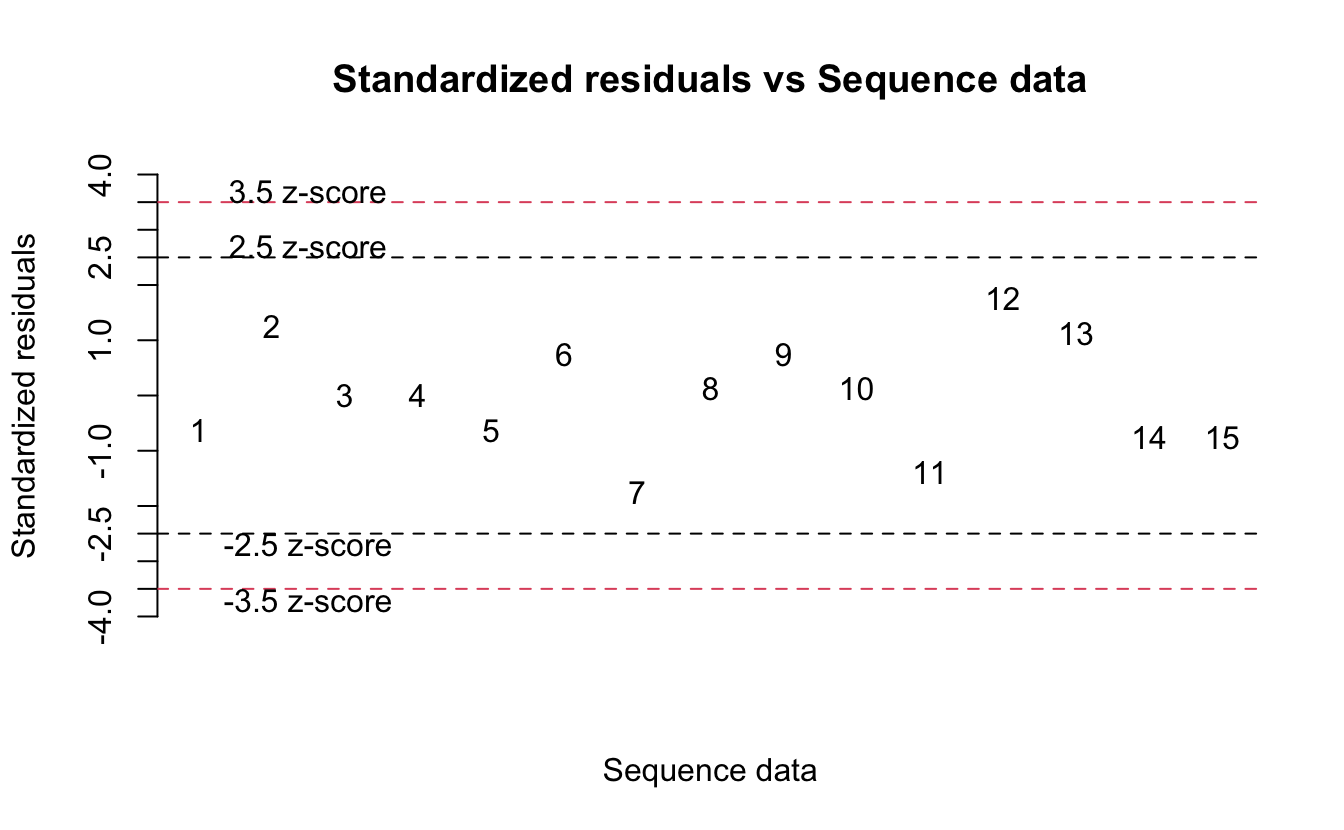
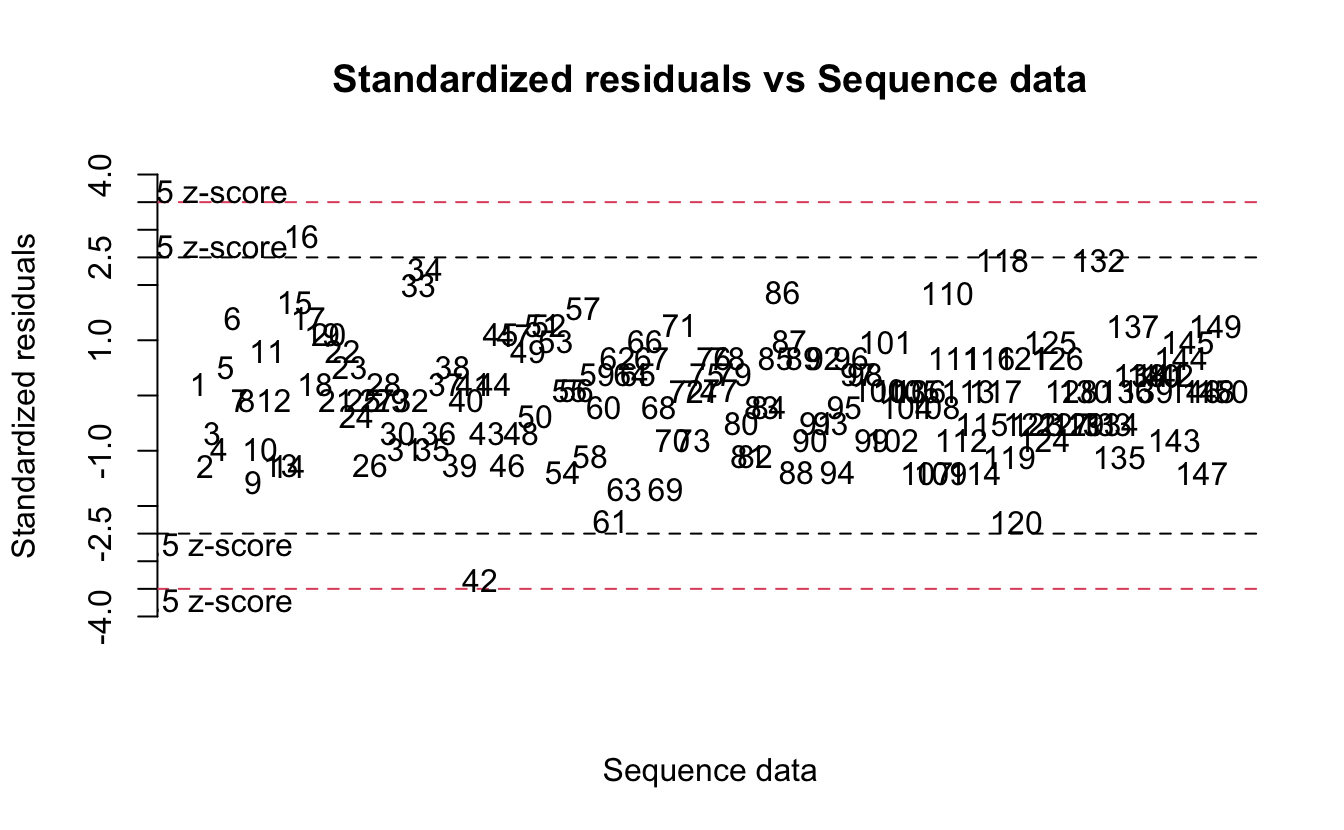
update iris data

diff --git a/content/post/ANOVA/index.md b/content/post/ANOVA/index.md
@@ -27,7 +27,7 @@ image:
 #   E.g. `projects = ["internal-project"]` references `content/project/deep-learning/index.md`.
 #   Otherwise, set `projects = []`.
 projects: []
-rmd_hash: 8fb338262478d6b3
+rmd_hash: b14fda81c5190925
 
 ---
 
@@ -401,9 +401,9 @@ En R, la prueba de Tukey HSD se realiza de la siguiente manera. Aquí es donde e
 <span class='c'>#&gt; </span>
 <span class='c'>#&gt; Linear Hypotheses:</span>
 <span class='c'>#&gt;                             Estimate Std. Error t value Pr(&gt;|t|)    </span>
-<span class='c'>#&gt; versicolor - setosa == 0    -0.65800    0.06794  -9.685  &lt; 0.001 ***</span>
-<span class='c'>#&gt; virginica - setosa == 0     -0.45400    0.06794  -6.683  &lt; 0.001 ***</span>
-<span class='c'>#&gt; virginica - versicolor == 0  0.20400    0.06794   3.003  0.00875 ** </span>
+<span class='c'>#&gt; versicolor - setosa == 0    -0.65800    0.06794  -9.685  &lt; 1e-04 ***</span>
+<span class='c'>#&gt; virginica - setosa == 0     -0.45400    0.06794  -6.683  &lt; 1e-04 ***</span>
+<span class='c'>#&gt; virginica - versicolor == 0  0.20400    0.06794   3.003  0.00881 ** </span>
 <span class='c'>#&gt; ---</span>
 <span class='c'>#&gt; Signif. codes:  0 '***' 0.001 '**' 0.01 '*' 0.05 '.' 0.1 ' ' 1</span>
 <span class='c'>#&gt; (Adjusted p values reported -- single-step method)</span>
@@ -450,31 +450,28 @@ Para realizar de forma más fácil un análisis de varianza, se puede usar la li
 
 ### Análisis de varianza con `easyanova`
 
-`data1` es la base de datos que se usará con la librería `easyanova`.
+Para proceder con ANVA los datos de `iris` se selecciona y ordena para dar uso con el paquete `easyanova`.
 
 <div class="highlight">
 
-<pre class='chroma'><code class='language-r' data-lang='r'><span class='nf'><a href='https://rdrr.io/r/utils/data.html'>data</a></span><span class='o'>(</span><span class='s'>"data1"</span><span class='o'>)</span>
-<span class='nf'>tibble</span><span class='o'>(</span><span class='nv'>data1</span><span class='o'>)</span>
+<pre class='chroma'><code class='language-r' data-lang='r'><span class='nv'>fsdata</span> <span class='o'>&lt;-</span> <span class='nv'>iris</span> <span class='o'>%&gt;%</span>
+  <span class='nf'>dplyr</span><span class='nf'>::</span><span class='nf'><a href='https://dplyr.tidyverse.org/reference/select.html'>select</a></span><span class='o'>(</span><span class='nv'>Species</span>, <span class='nv'>Sepal.Width</span><span class='o'>)</span>
+<span class='nf'>tibble</span><span class='o'>(</span><span class='nv'>fsdata</span><span class='o'>)</span>
 
-<span class='c'>#&gt; <span style='color: #555555;'># A tibble: 15 x 2</span></span>
-<span class='c'>#&gt;    Diet   Gain</span>
-<span class='c'>#&gt;    <span style='color: #555555;font-style: italic;'>&lt;fct&gt;</span><span> </span><span style='color: #555555;font-style: italic;'>&lt;int&gt;</span></span>
-<span class='c'>#&gt; <span style='color: #555555;'> 1</span><span> d1      270</span></span>
-<span class='c'>#&gt; <span style='color: #555555;'> 2</span><span> d1      300</span></span>
-<span class='c'>#&gt; <span style='color: #555555;'> 3</span><span> d1      280</span></span>
-<span class='c'>#&gt; <span style='color: #555555;'> 4</span><span> d1      280</span></span>
-<span class='c'>#&gt; <span style='color: #555555;'> 5</span><span> d1      270</span></span>
-<span class='c'>#&gt; <span style='color: #555555;'> 6</span><span> d2      290</span></span>
-<span class='c'>#&gt; <span style='color: #555555;'> 7</span><span> d2      250</span></span>
-<span class='c'>#&gt; <span style='color: #555555;'> 8</span><span> d2      280</span></span>
-<span class='c'>#&gt; <span style='color: #555555;'> 9</span><span> d2      290</span></span>
-<span class='c'>#&gt; <span style='color: #555555;'>10</span><span> d2      280</span></span>
-<span class='c'>#&gt; <span style='color: #555555;'>11</span><span> d3      290</span></span>
-<span class='c'>#&gt; <span style='color: #555555;'>12</span><span> d3      340</span></span>
-<span class='c'>#&gt; <span style='color: #555555;'>13</span><span> d3      330</span></span>
-<span class='c'>#&gt; <span style='color: #555555;'>14</span><span> d3      300</span></span>
-<span class='c'>#&gt; <span style='color: #555555;'>15</span><span> d3      300</span></span>
+<span class='c'>#&gt; <span style='color: #555555;'># A tibble: 150 x 2</span></span>
+<span class='c'>#&gt;    Species Sepal.Width</span>
+<span class='c'>#&gt;    <span style='color: #555555;font-style: italic;'>&lt;fct&gt;</span><span>         </span><span style='color: #555555;font-style: italic;'>&lt;dbl&gt;</span></span>
+<span class='c'>#&gt; <span style='color: #555555;'> 1</span><span> setosa          3.5</span></span>
+<span class='c'>#&gt; <span style='color: #555555;'> 2</span><span> setosa          3  </span></span>
+<span class='c'>#&gt; <span style='color: #555555;'> 3</span><span> setosa          3.2</span></span>
+<span class='c'>#&gt; <span style='color: #555555;'> 4</span><span> setosa          3.1</span></span>
+<span class='c'>#&gt; <span style='color: #555555;'> 5</span><span> setosa          3.6</span></span>
+<span class='c'>#&gt; <span style='color: #555555;'> 6</span><span> setosa          3.9</span></span>
+<span class='c'>#&gt; <span style='color: #555555;'> 7</span><span> setosa          3.4</span></span>
+<span class='c'>#&gt; <span style='color: #555555;'> 8</span><span> setosa          3.4</span></span>
+<span class='c'>#&gt; <span style='color: #555555;'> 9</span><span> setosa          2.9</span></span>
+<span class='c'>#&gt; <span style='color: #555555;'>10</span><span> setosa          3.1</span></span>
+<span class='c'>#&gt; <span style='color: #555555;'># … with 140 more rows</span></span>
 </code></pre>
 
 </div>
@@ -483,7 +480,7 @@ Para realizar de forma más fácil un análisis de varianza, se puede usar la li
 
 <pre class='chroma'><code class='language-r' data-lang='r'><span class='c'># Análisis de varianza para DCA</span>
 
-<span class='nv'>r1</span> <span class='o'>&lt;-</span> <span class='nf'><a href='https://rdrr.io/pkg/easyanova/man/ea1.html'>ea1</a></span><span class='o'>(</span>data <span class='o'>=</span> <span class='nv'>data1</span>, <span class='c'># Base de datos</span>
+<span class='nv'>r1</span> <span class='o'>&lt;-</span> <span class='nf'><a href='https://rdrr.io/pkg/easyanova/man/ea1.html'>ea1</a></span><span class='o'>(</span>data <span class='o'>=</span> <span class='nv'>fsdata</span>, <span class='c'># Base de datos</span>
           design <span class='o'>=</span> <span class='m'>1</span>, <span class='c'># Diseño experimental: 1=DCA, 2=DBCA, etc.</span>
           alpha <span class='o'>=</span> <span class='m'>0.05</span><span class='o'>)</span> <span class='c'># Probabilidad estadística</span>
 
@@ -492,47 +489,113 @@ Para realizar de forma más fácil un análisis de varianza, se puede usar la li
 <pre class='chroma'><code class='language-r' data-lang='r'><span class='nv'>r1</span>
 
 <span class='c'>#&gt; $`Analysis of variance`</span>
-<span class='c'>#&gt;            df type I SS mean square F value    p&gt;F</span>
-<span class='c'>#&gt; treatments  2      3640   1820.0000  6.1348 0.0146</span>
-<span class='c'>#&gt; Residuals  12      3560    296.6667       -      -</span>
+<span class='c'>#&gt;             df type I SS mean square F value    p&gt;F</span>
+<span class='c'>#&gt; treatments   2   11.3449      5.6725   49.16 &lt;0.001</span>
+<span class='c'>#&gt; Residuals  147   16.9620      0.1154       -      -</span>
 <span class='c'>#&gt; </span>
 <span class='c'>#&gt; $Means</span>
-<span class='c'>#&gt;   treatment mean standard.error tukey snk duncan t scott_knott</span>
-<span class='c'>#&gt; 1        d3  312         7.7028     a   a      a a           a</span>
-<span class='c'>#&gt; 2        d1  280         7.7028     b   b      b b           b</span>
-<span class='c'>#&gt; 3        d2  278         7.7028     b   b      b b           b</span>
+<span class='c'>#&gt;    treatment  mean standard.error tukey snk duncan t scott_knott</span>
+<span class='c'>#&gt; 1     setosa 3.428          0.048     a   a      a a           a</span>
+<span class='c'>#&gt; 2  virginica 2.974          0.048     b   b      b b           b</span>
+<span class='c'>#&gt; 3 versicolor 2.770          0.048     c   c      c c           c</span>
 <span class='c'>#&gt; </span>
 <span class='c'>#&gt; $`Multiple comparison test`</span>
-<span class='c'>#&gt;      pair contrast p(tukey) p(snk) p(duncan)   p(t)</span>
-<span class='c'>#&gt; 1 d3 - d1       32   0.0310 0.0124    0.0124 0.0124</span>
-<span class='c'>#&gt; 2 d3 - d2       34   0.0223 0.0223    0.0112 0.0088</span>
-<span class='c'>#&gt; 3 d1 - d2        2   0.9816 0.8574    0.8574 0.8574</span>
+<span class='c'>#&gt;                     pair contrast p(tukey) p(snk) p(duncan)   p(t)</span>
+<span class='c'>#&gt; 1     setosa - virginica    0.454   0.0000 0.0000    0.0000 0.0000</span>
+<span class='c'>#&gt; 2    setosa - versicolor    0.658   0.0000 0.0000    0.0000 0.0000</span>
+<span class='c'>#&gt; 3 virginica - versicolor    0.204   0.0087 0.0031    0.0031 0.0031</span>
 <span class='c'>#&gt; </span>
 <span class='c'>#&gt; $`Residual analysis`</span>
 <span class='c'>#&gt; $`Residual analysis`$`residual analysis`</span>
-<span class='c'>#&gt;                               values</span>
-<span class='c'>#&gt; p.value Shapiro-Wilk test     0.8937</span>
-<span class='c'>#&gt; p.value Bartlett test         0.5662</span>
-<span class='c'>#&gt; coefficient of variation (%)  5.9400</span>
-<span class='c'>#&gt; first value most discrepant   7.0000</span>
-<span class='c'>#&gt; second value most discrepant 12.0000</span>
-<span class='c'>#&gt; third value most discrepant  11.0000</span>
+<span class='c'>#&gt;                                values</span>
+<span class='c'>#&gt; p.value Shapiro-Wilk test      0.3230</span>
+<span class='c'>#&gt; p.value Bartlett test          0.3515</span>
+<span class='c'>#&gt; coefficient of variation (%)  11.1100</span>
+<span class='c'>#&gt; first value most discrepant   42.0000</span>
+<span class='c'>#&gt; second value most discrepant  16.0000</span>
+<span class='c'>#&gt; third value most discrepant  118.0000</span>
 <span class='c'>#&gt; </span>
 <span class='c'>#&gt; $`Residual analysis`$residuals</span>
-<span class='c'>#&gt;             1             2             3             4             5 </span>
-<span class='c'>#&gt; -1.000000e+01  2.000000e+01  2.531308e-14  3.952394e-14 -1.000000e+01 </span>
-<span class='c'>#&gt;             6             7             8             9            10 </span>
-<span class='c'>#&gt;  1.200000e+01 -2.800000e+01  2.000000e+00  1.200000e+01  2.000000e+00 </span>
-<span class='c'>#&gt;            11            12            13            14            15 </span>
-<span class='c'>#&gt; -2.200000e+01  2.800000e+01  1.800000e+01 -1.200000e+01 -1.200000e+01 </span>
+<span class='c'>#&gt;      1      2      3      4      5      6      7      8      9     10     11 </span>
+<span class='c'>#&gt;  0.072 -0.428 -0.228 -0.328  0.172  0.472 -0.028 -0.028 -0.528 -0.328  0.272 </span>
+<span class='c'>#&gt;     12     13     14     15     16     17     18     19     20     21     22 </span>
+<span class='c'>#&gt; -0.028 -0.428 -0.428  0.572  0.972  0.472  0.072  0.372  0.372 -0.028  0.272 </span>
+<span class='c'>#&gt;     23     24     25     26     27     28     29     30     31     32     33 </span>
+<span class='c'>#&gt;  0.172 -0.128 -0.028 -0.428 -0.028  0.072 -0.028 -0.228 -0.328 -0.028  0.672 </span>
+<span class='c'>#&gt;     34     35     36     37     38     39     40     41     42     43     44 </span>
+<span class='c'>#&gt;  0.772 -0.328 -0.228  0.072  0.172 -0.428 -0.028  0.072 -1.128 -0.228  0.072 </span>
+<span class='c'>#&gt;     45     46     47     48     49     50     51     52     53     54     55 </span>
+<span class='c'>#&gt;  0.372 -0.428  0.372 -0.228  0.272 -0.128  0.430  0.430  0.330 -0.470  0.030 </span>
+<span class='c'>#&gt;     56     57     58     59     60     61     62     63     64     65     66 </span>
+<span class='c'>#&gt;  0.030  0.530 -0.370  0.130 -0.070 -0.770  0.230 -0.570  0.130  0.130  0.330 </span>
+<span class='c'>#&gt;     67     68     69     70     71     72     73     74     75     76     77 </span>
+<span class='c'>#&gt;  0.230 -0.070 -0.570 -0.270  0.430  0.030 -0.270  0.030  0.130  0.230  0.030 </span>
+<span class='c'>#&gt;     78     79     80     81     82     83     84     85     86     87     88 </span>
+<span class='c'>#&gt;  0.230  0.130 -0.170 -0.370 -0.370 -0.070 -0.070  0.230  0.630  0.330 -0.470 </span>
+<span class='c'>#&gt;     89     90     91     92     93     94     95     96     97     98     99 </span>
+<span class='c'>#&gt;  0.230 -0.270 -0.170  0.230 -0.170 -0.470 -0.070  0.230  0.130  0.130 -0.270 </span>
+<span class='c'>#&gt;    100    101    102    103    104    105    106    107    108    109    110 </span>
+<span class='c'>#&gt;  0.030  0.326 -0.274  0.026 -0.074  0.026  0.026 -0.474 -0.074 -0.474  0.626 </span>
+<span class='c'>#&gt;    111    112    113    114    115    116    117    118    119    120    121 </span>
+<span class='c'>#&gt;  0.226 -0.274  0.026 -0.474 -0.174  0.226  0.026  0.826 -0.374 -0.774  0.226 </span>
+<span class='c'>#&gt;    122    123    124    125    126    127    128    129    130    131    132 </span>
+<span class='c'>#&gt; -0.174 -0.174 -0.274  0.326  0.226 -0.174  0.026 -0.174  0.026 -0.174  0.826 </span>
+<span class='c'>#&gt;    133    134    135    136    137    138    139    140    141    142    143 </span>
+<span class='c'>#&gt; -0.174 -0.174 -0.374  0.026  0.426  0.126  0.026  0.126  0.126  0.126 -0.274 </span>
+<span class='c'>#&gt;    144    145    146    147    148    149    150 </span>
+<span class='c'>#&gt;  0.226  0.326  0.026 -0.474  0.026  0.426  0.026 </span>
 <span class='c'>#&gt; </span>
 <span class='c'>#&gt; $`Residual analysis`$`standardized residuals`</span>
-<span class='c'>#&gt;             1             2             3             4             5 </span>
-<span class='c'>#&gt; -6.271032e-01  1.254206e+00  1.557686e-15  2.448853e-15 -6.271032e-01 </span>
-<span class='c'>#&gt;             6             7             8             9            10 </span>
-<span class='c'>#&gt;  7.525238e-01 -1.755889e+00  1.254206e-01  7.525238e-01  1.254206e-01 </span>
-<span class='c'>#&gt;            11            12            13            14            15 </span>
-<span class='c'>#&gt; -1.379627e+00  1.755889e+00  1.128786e+00 -7.525238e-01 -7.525238e-01</span>
+<span class='c'>#&gt;           1           2           3           4           5           6 </span>
+<span class='c'>#&gt;  0.21339641 -1.26852308 -0.67575529 -0.97213918  0.50978030  1.39893200 </span>
+<span class='c'>#&gt;           7           8           9          10          11          12 </span>
+<span class='c'>#&gt; -0.08298749 -0.08298749 -1.56490698 -0.97213918  0.80616420 -0.08298749 </span>
+<span class='c'>#&gt;          13          14          15          16          17          18 </span>
+<span class='c'>#&gt; -1.26852308 -1.26852308  1.69531589  2.88085148  1.39893200  0.21339641 </span>
+<span class='c'>#&gt;          19          20          21          22          23          24 </span>
+<span class='c'>#&gt;  1.10254810  1.10254810 -0.08298749  0.80616420  0.50978030 -0.37937139 </span>
+<span class='c'>#&gt;          25          26          27          28          29          30 </span>
+<span class='c'>#&gt; -0.08298749 -1.26852308 -0.08298749  0.21339641 -0.08298749 -0.67575529 </span>
+<span class='c'>#&gt;          31          32          33          34          35          36 </span>
+<span class='c'>#&gt; -0.97213918 -0.08298749  1.99169979  2.28808369 -0.97213918 -0.67575529 </span>
+<span class='c'>#&gt;          37          38          39          40          41          42 </span>
+<span class='c'>#&gt;  0.21339641  0.50978030 -1.26852308 -0.08298749  0.21339641 -3.34321036 </span>
+<span class='c'>#&gt;          43          44          45          46          47          48 </span>
+<span class='c'>#&gt; -0.67575529  0.21339641  1.10254810 -1.26852308  1.10254810 -0.67575529 </span>
+<span class='c'>#&gt;          49          50          51          52          53          54 </span>
+<span class='c'>#&gt;  0.80616420 -0.37937139  1.27445076  1.27445076  0.97806686 -1.39300432 </span>
+<span class='c'>#&gt;          55          56          57          58          59          60 </span>
+<span class='c'>#&gt;  0.08891517  0.08891517  1.57083466 -1.09662042  0.38529907 -0.20746873 </span>
+<span class='c'>#&gt;          61          62          63          64          65          66 </span>
+<span class='c'>#&gt; -2.28215601  0.68168296 -1.68938822  0.38529907  0.38529907  0.97806686 </span>
+<span class='c'>#&gt;          67          68          69          70          71          72 </span>
+<span class='c'>#&gt;  0.68168296 -0.20746873 -1.68938822 -0.80023652  1.27445076  0.08891517 </span>
+<span class='c'>#&gt;          73          74          75          76          77          78 </span>
+<span class='c'>#&gt; -0.80023652  0.08891517  0.38529907  0.68168296  0.08891517  0.68168296 </span>
+<span class='c'>#&gt;          79          80          81          82          83          84 </span>
+<span class='c'>#&gt;  0.38529907 -0.50385263 -1.09662042 -1.09662042 -0.20746873 -0.20746873 </span>
+<span class='c'>#&gt;          85          86          87          88          89          90 </span>
+<span class='c'>#&gt;  0.68168296  1.86721855  0.97806686 -1.39300432  0.68168296 -0.80023652 </span>
+<span class='c'>#&gt;          91          92          93          94          95          96 </span>
+<span class='c'>#&gt; -0.50385263  0.68168296 -0.50385263 -1.39300432 -0.20746873  0.68168296 </span>
+<span class='c'>#&gt;          97          98          99         100         101         102 </span>
+<span class='c'>#&gt;  0.38529907  0.38529907 -0.80023652  0.08891517  0.96621151 -0.81209188 </span>
+<span class='c'>#&gt;         103         104         105         106         107         108 </span>
+<span class='c'>#&gt;  0.07705981 -0.21932408  0.07705981  0.07705981 -1.40485967 -0.21932408 </span>
+<span class='c'>#&gt;         109         110         111         112         113         114 </span>
+<span class='c'>#&gt; -1.40485967  1.85536320  0.66982761 -0.81209188  0.07705981 -1.40485967 </span>
+<span class='c'>#&gt;         115         116         117         118         119         120 </span>
+<span class='c'>#&gt; -0.51570798  0.66982761  0.07705981  2.44813099 -1.10847578 -2.29401137 </span>
+<span class='c'>#&gt;         121         122         123         124         125         126 </span>
+<span class='c'>#&gt;  0.66982761 -0.51570798 -0.51570798 -0.81209188  0.96621151  0.66982761 </span>
+<span class='c'>#&gt;         127         128         129         130         131         132 </span>
+<span class='c'>#&gt; -0.51570798  0.07705981 -0.51570798  0.07705981 -0.51570798  2.44813099 </span>
+<span class='c'>#&gt;         133         134         135         136         137         138 </span>
+<span class='c'>#&gt; -0.51570798 -0.51570798 -1.10847578  0.07705981  1.26259540  0.37344371 </span>
+<span class='c'>#&gt;         139         140         141         142         143         144 </span>
+<span class='c'>#&gt;  0.07705981  0.37344371  0.37344371  0.37344371 -0.81209188  0.66982761 </span>
+<span class='c'>#&gt;         145         146         147         148         149         150 </span>
+<span class='c'>#&gt;  0.96621151  0.07705981 -1.40485967  0.07705981  1.26259540  0.07705981</span>
 </code></pre>
 
 </div>
@@ -601,16 +664,16 @@ Otra opción de gráfica para observar la significancia entre las medias de cada
 <span class='c'>#&gt; </span>
 <span class='c'>#&gt;     filter</span>
 
-<span class='nv'>pwc</span> <span class='o'>&lt;-</span> <span class='nv'>data1</span> <span class='o'>%&gt;%</span>
+<span class='nv'>pwc</span> <span class='o'>&lt;-</span> <span class='nv'>fsdata</span> <span class='o'>%&gt;%</span>
   <span class='nf'><a href='https://rpkgs.datanovia.com/rstatix/reference/t_test.html'>pairwise_t_test</a></span><span class='o'>(</span>
-    <span class='nv'>Gain</span> <span class='o'>~</span> <span class='nv'>Diet</span>, pool.sd <span class='o'>=</span> <span class='kc'>FALSE</span>,
+    <span class='nv'>Sepal.Width</span> <span class='o'>~</span> <span class='nv'>Species</span>, pool.sd <span class='o'>=</span> <span class='kc'>FALSE</span>,
     p.adjust.method <span class='o'>=</span> <span class='s'>"none"</span>
     <span class='o'>)</span>
 
 <span class='c'># Visualization: box plots with p-values</span>
-<span class='nv'>pwc</span> <span class='o'>&lt;-</span> <span class='nv'>pwc</span> <span class='o'>%&gt;%</span> <span class='nf'><a href='https://rpkgs.datanovia.com/rstatix/reference/get_pvalue_position.html'>add_xy_position</a></span><span class='o'>(</span>x <span class='o'>=</span> <span class='s'>"Diet"</span><span class='o'>)</span>
-<span class='nf'><a href='https://rpkgs.datanovia.com/ggpubr/reference/ggboxplot.html'>ggboxplot</a></span><span class='o'>(</span><span class='nv'>data1</span>, x <span class='o'>=</span> <span class='s'>"Diet"</span>, y <span class='o'>=</span> <span class='s'>"Gain"</span>,
-          color <span class='o'>=</span> <span class='s'>"Diet"</span>, 
+<span class='nv'>pwc</span> <span class='o'>&lt;-</span> <span class='nv'>pwc</span> <span class='o'>%&gt;%</span> <span class='nf'><a href='https://rpkgs.datanovia.com/rstatix/reference/get_pvalue_position.html'>add_xy_position</a></span><span class='o'>(</span>x <span class='o'>=</span> <span class='s'>"Species"</span><span class='o'>)</span>
+<span class='nf'><a href='https://rpkgs.datanovia.com/ggpubr/reference/ggboxplot.html'>ggboxplot</a></span><span class='o'>(</span><span class='nv'>fsdata</span>, x <span class='o'>=</span> <span class='s'>"Species"</span>, y <span class='o'>=</span> <span class='s'>"Sepal.Width"</span>,
+          color <span class='o'>=</span> <span class='s'>"Species"</span>, 
           legend <span class='o'>=</span> <span class='s'>"none"</span>, 
           add <span class='o'>=</span> <span class='s'>"jitter"</span><span class='o'>)</span> <span class='o'>+</span>
   <span class='nf'><a href='https://rpkgs.datanovia.com/ggpubr/reference/stat_pvalue_manual.html'>stat_pvalue_manual</a></span><span class='o'>(</span><span class='nv'>pwc</span>, hide.ns <span class='o'>=</span> <span class='kc'>TRUE</span><span class='o'>)</span> 
